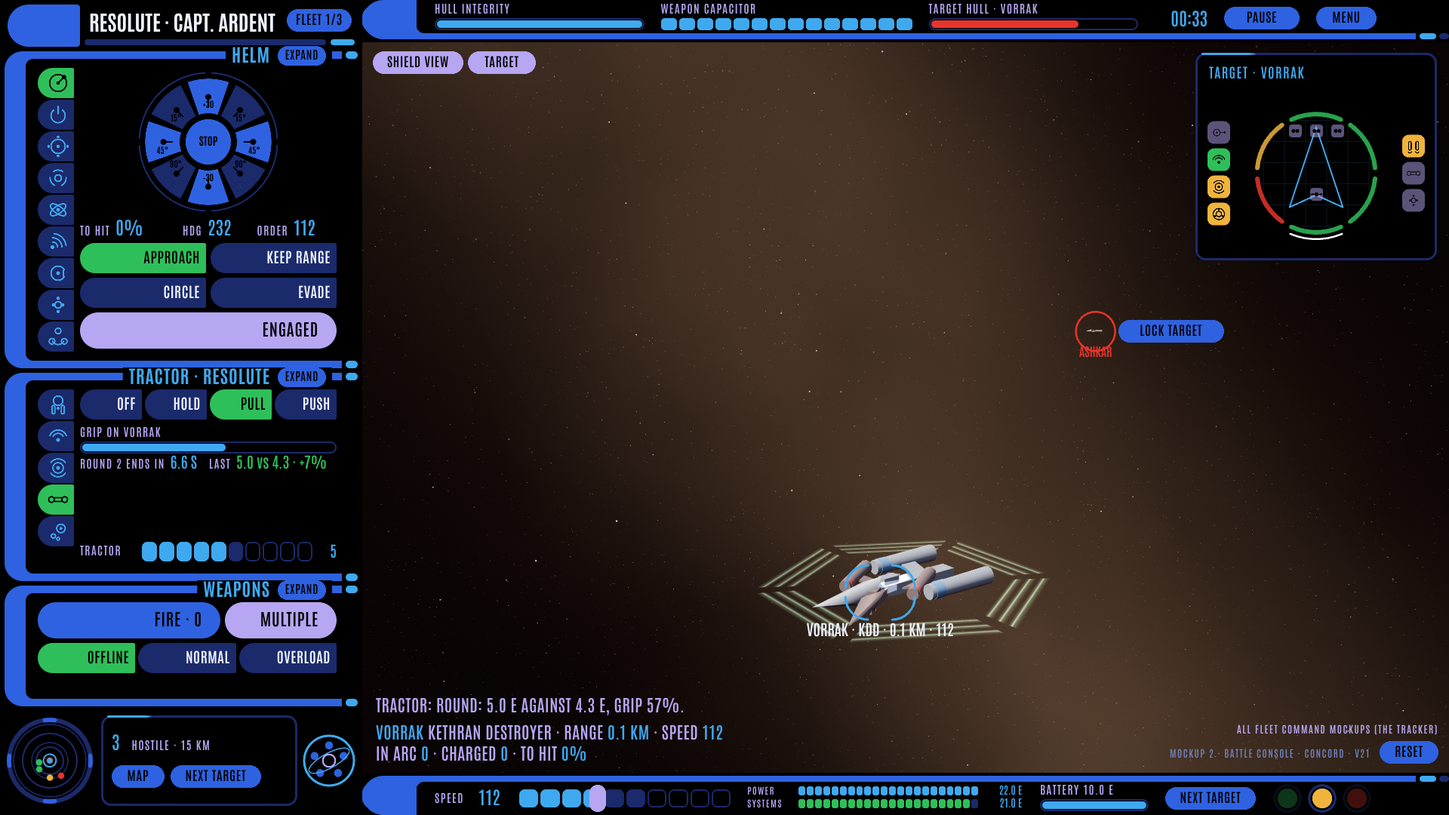
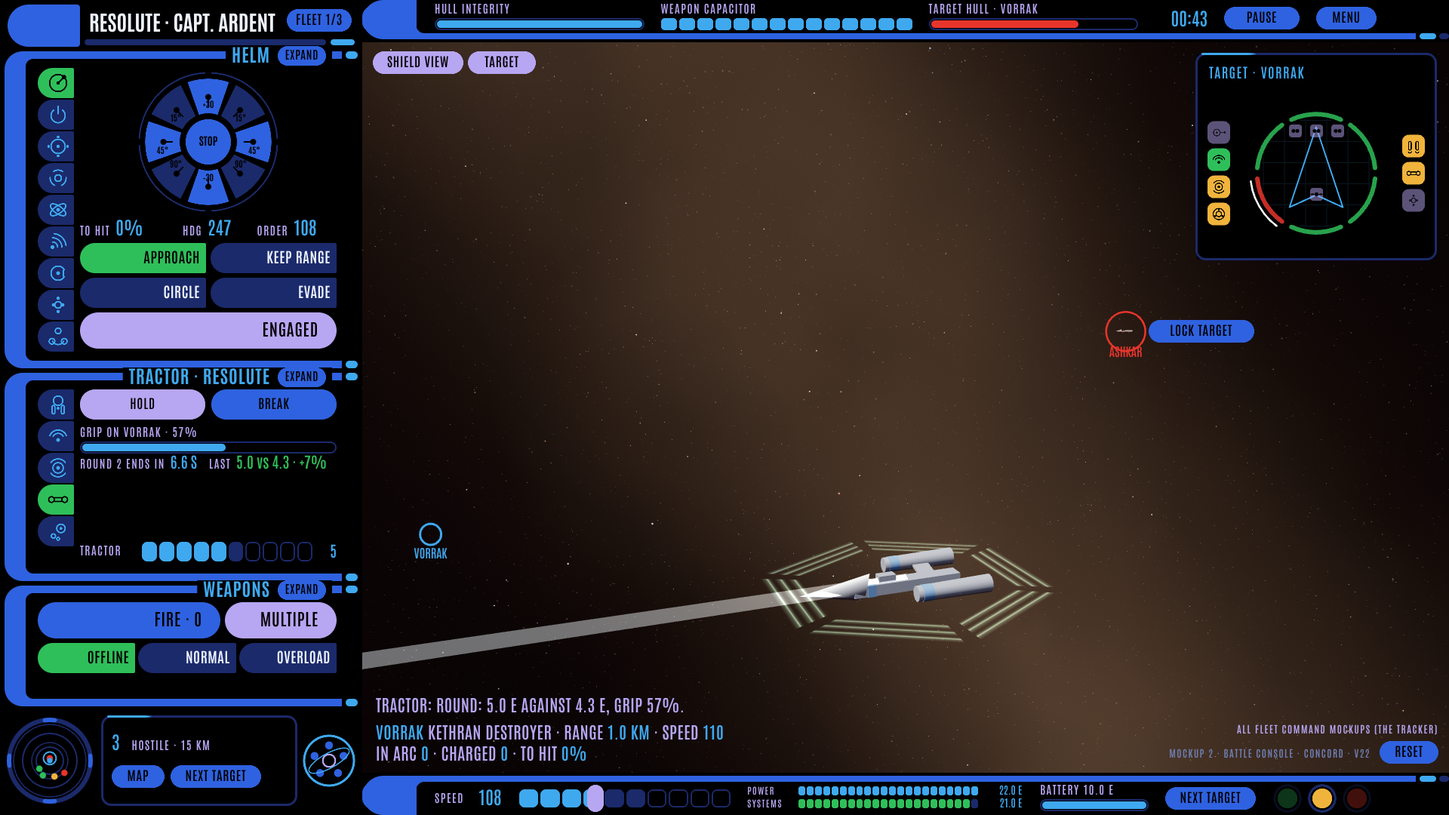
Battle console v22: tractor Hold and Break, 10 s power-up, the beam turns on a weak or downed holder; survey B11-B12
Claude-Session: https://claude.ai/code/session_01RGPQuqAYNNJKpzbbbZ3BfB

diff --git a/docs/mockups/battle-console.html b/docs/mockups/battle-console.html
@@ -427,13 +427,15 @@ for (const el of document.querySelectorAll('script[type="application/json"][data
 const M_PER_U = 100;
 // Mine laying (owner, 2026-11-01: "Mine laying should have a cool down system of 3 seconds").
 const MINE = { cooldown_s: 3, arm_s: 3, trigger_u: 12, dmg: 20 };
-// The tractor beam is a contest of rounds (owner, 2026-11-01): the grip starts at 50 %, a round lasts 10 s, and by its
-// end each ship has picked a beam value, the energy it puts into its tractor (the holder to hold, the held ship to
-// resist). Neither sees the other's pick until the round ends. The higher pick moves the grip its way, step_per_e for
-// each point of difference; a grip at 0 frees the held ship. The grip scales how hard the beam holds, pulls or pushes.
-// A ship that breaks free cannot be taken by the same holder again for relock_s (one round), so switching the beam
-// straight back on does not hand the holder a fresh 50 %.
-const TRACTOR = { reach_km: 3, grip_start: 0.5, round_s: 10, step_per_e: 0.1, hold_damp: 0.8, move_u_s: 2, relock_s: 10 };
+// The tractor beam is a contest of rounds (owner, 2026-11-01). Two keys only, Hold and Break ("Hold and break should be
+// only two options"): Hold powers the beam up for powerup_s ("Tractor beam does take 10 seconds to power up"), then it
+// takes the target inside reach at a grip of 50 %. A round lasts round_s; by its end each ship has picked a beam value,
+// the energy it puts into its tractor (the holder to hold, the held ship to resist), unseen by the other until the
+// round ends. The higher pick moves the grip its way, step_per_e for each point of difference. A grip at 0 frees the
+// held ship, and if the holder's tractor is down (off, disabled or destroyed) or its value is under reverse_ratio of
+// the breaker's, the breaker takes hold of the holder ("The ship breaking the beam then becomes the holder"). The
+// holder can Break at any time. A ship that broke free cannot be taken by the same holder again for relock_s.
+const TRACTOR = { reach_km: 3, powerup_s: 10, grip_start: 0.5, round_s: 10, step_per_e: 0.1, reverse_ratio: 0.5, hold_damp: 0.8, relock_s: 10 };
 const WEAPONS = {
   lance: { name: 'Lance', kind: 'beam', range_km: 12, charge_s: 3.5, cost_e: 2, dmg: 7, color: 0x6fc4ff },
   torpedo: { name: 'Pulse torpedo', kind: 'torpedo', range_km: 18, charge_s: 8, cost_e: 5, dmg: 14, speed_m_s: 2600, color: 0x9fd0ff,
@@ -567,7 +569,7 @@ function makeShip(d) {
     mounts: c.mounts.map(([w, x, y, ac, aw], i) => ({ i, w, x, y, arc: [ac, aw], state: 'normal', charge: 0.6 + (i % 3) * 0.15, sel: w !== 'pd', hp: 1 })),
     sys: { weapons: 1, shields: 1, engines: 1, sensors: 1, tractor: 1, transport: 1 }, target: null, aim: 'hull', order: 'approach', engaged: false,
     ai: { stance: 'attack', rule: d.side === 0 ? 'mine' : 'nearest', range: 'mid', retreat: 'never', fire: 'free' }, ecm: 0, eccm: 0, sensorMode: 'active',
-    scan: { id: null, p: 0 }, tractor: 'off', beam: null, relock: null, mineCool: 0, pd: 'auto', transporter: 1, marines: c.marines, mines: c.mines, fighters: c.fighters, mission: 'attack',
+    scan: { id: null, p: 0 }, tractor: 'off', powerT: 0, beam: null, relock: null, mineCool: 0, pd: 'auto', transporter: 1, marines: c.marines, mines: c.mines, fighters: c.fighters, mission: 'attack',
     reactor: { coils: [0, 0, 0], conf: 1, loops: [{ flow: 1, hp: 1 }, { flow: 1, hp: 1 }], temp: 50, melt: 0, warned: false }, brown: 1, overdraw: false,
     alert: 'yellow', priority: 'engines', alive: true, flash: [0, 0, 0, 0, 0, 0], thinkT: 0, volley: true, intercepts: 0 };
 }
@@ -636,33 +638,51 @@ function systemsStep(s) {
 // The beam's value for a round: the energy a ship puts into its tractor, scaled by the tractor's health. The holder's
 // value holds; the held ship's resists. One rule for both sides and for the panel's readout.
 function beamValue(s) { return s.power.tractor * s.sys.tractor * s.brown; }
-// The tractor beam, every step. A beam takes hold of the target inside reach when the captain sets a mode with power
-// in the tractor; it drops when the target leaves reach or dies, the power goes, or the mode is set to Off. Each round
-// ends with both picks compared and the grip moved; at 0 the held ship breaks free and the mode returns to Off.
+// A ship's tractor counts as down when it has no energy or is disabled or destroyed.
+function tractorDown(s) { return s.power.tractor <= 0 || s.sys.tractor < 0.35; }
+// A beam taking hold: at the start grip, a fresh round.
+function takeHold(s, h, why) {
+  s.tractor = 'hold'; s.powerT = 0;
+  s.beam = { on: h.id, grip: TRACTOR.grip_start, roundT: TRACTOR.round_s, round: 1, last: null };
+  say('Tractor', `${s.name} ${why} ${h.name}, grip ${pct(TRACTOR.grip_start)}.`);
+}
+// The tractor beam, every step. Modes: 'off', 'power' (powering up after Hold), 'hold' (powered; holding, or waiting
+// for the target to come inside reach). The beam drops if the target leaves reach or dies, or the tractor is down.
+// Each round ends with both picks compared and the grip moved; at 0 the held ship breaks free, and may turn the beam.
 function tractorStep(s) {
-  const t = tgt(s);
   if (s.relock && (s.relock.t -= DT) <= 0) s.relock = null;
+  if (s.tractor === 'power') { if (s.power.tractor > 0) s.powerT = Math.max(0, s.powerT - DT); if (s.powerT <= 0) s.tractor = 'hold'; return; }
+  const t = tgt(s);
   if (!s.beam) {
-    if (s.tractor !== 'off' && t && s.power.tractor > 0 && distKm(s, t) <= TRACTOR.reach_km && !(s.relock && s.relock.on === t.id)) {
-      s.beam = { on: t.id, grip: TRACTOR.grip_start, roundT: TRACTOR.round_s, round: 1, last: null };
-      say('Tractor', `Beam on ${t.name}, grip ${pct(TRACTOR.grip_start)}.`);
-    }
+    if (s.tractor === 'hold' && t && !tractorDown(s) && !heldBy(s) && distKm(s, t) <= TRACTOR.reach_km && !(s.relock && s.relock.on === t.id)) takeHold(s, t, 'takes hold of');
     return;
   }
   const b = s.beam, h = ship(b.on);
-  if (s.tractor === 'off' || !h || !h.alive || s.power.tractor <= 0 || distKm(s, h) > TRACTOR.reach_km + 0.2) {
-    s.beam = null; if (s.tractor !== 'off') say('Tractor', 'Beam lost.'); return;
+  // The holder's tractor going down (disabled, destroyed or out of energy) frees the held ship, which takes hold of
+  // the holder if its own tractor can ("If enemy tractor beam module is down ... the ship breaking the beam then
+  // becomes the holder").
+  if (h && h.alive && s.tractor === 'hold' && tractorDown(s)) {
+    s.beam = null; s.tractor = 'off'; s.relock = { on: h.id, t: TRACTOR.relock_s };
+    if (!tractorDown(h) && distKm(s, h) <= TRACTOR.reach_km) takeHold(h, s, 'breaks free and takes hold of'); else say('Tractor', `${h.name} broke free.`);
+    return;
+  }
+  if (s.tractor !== 'hold' || !h || !h.alive || distKm(s, h) > TRACTOR.reach_km + 0.2) {
+    s.beam = null; s.tractor = 'off'; say('Tractor', `${s.name}: beam lost.`); return;
   }
   b.roundT -= DT;
   if (b.roundT <= 0) {
     const mine = beamValue(s), theirs = beamValue(h), d = (mine - theirs) * TRACTOR.step_per_e;
     b.grip = clamp(b.grip + d, 0, 1); b.last = { mine, theirs, d }; b.roundT += TRACTOR.round_s; b.round++;
-    if (b.grip <= 0) { say('Tractor', `${h.name} broke free.`); s.beam = null; s.tractor = 'off'; s.relock = { on: h.id, t: TRACTOR.relock_s }; return; }
+    if (b.grip <= 0) {
+      s.beam = null; s.tractor = 'off'; s.relock = { on: h.id, t: TRACTOR.relock_s };
+      // The breaker turns the beam when the holder's tractor is down or holds with under half the breaker's value.
+      if (!tractorDown(h) && (tractorDown(s) || mine < TRACTOR.reverse_ratio * theirs)) takeHold(h, s, 'breaks free and takes hold of');
+      else say('Tractor', `${h.name} broke free.`);
+      return;
+    }
     say('Tractor', `Round: ${mine.toFixed(1)} E against ${theirs.toFixed(1)} E, grip ${pct(b.grip)}.`);
   }
-  const k = b.grip, d = distU(s, h), ux = (h.x - s.x) / d, uz = (h.z - s.z) / d;
-  if (s.tractor === 'hold') h.v *= 1 - TRACTOR.hold_damp * k * DT;
-  else { const dir = s.tractor === 'pull' ? -1 : 1; h.x += ux * dir * TRACTOR.move_u_s * k * DT; h.z += uz * dir * TRACTOR.move_u_s * k * DT; }
+  h.v *= 1 - TRACTOR.hold_damp * b.grip * DT;
 }
 // The ship a beam is holding this one, or null.
 function heldBy(s) { return W.ships.find((o) => o.alive && o.beam && o.beam.on === s.id) || null; }
@@ -727,15 +747,15 @@ function think(s) {
   const [la, lb] = s.reactor.loops; if (la.hp < 0.3 && lb.flow < REACTOR.flow_max) { lb.flow++; la.flow = Math.max(0, la.flow - 1); } else if (lb.hp < 0.3 && la.flow < REACTOR.flow_max) { la.flow++; lb.flow = Math.max(0, lb.flow - 1); }
   if (ai.fire === 'free') for (const m of s.mounts) if (m.w !== 'pd' && ready(m) && inArc(s, m, t) && hitChance(s, m, t) >= 0.35) fireMount(s, m, t);
   if (s.side === 1 && s.ecm === 0 && s.power.sensors > 0) s.ecm = 1;
-  // Held by a beam: once a round, the crew picks how much to resist with (a seeded pick within the room it has),
-  // unseen by the holder until the round ends; free again, the tractor's energy goes back to nothing.
-  const hb = heldBy(s);
-  if (hb && s.resistRound !== hb.beam.round) {
-    // spare energy first, then energy taken from the weapons
-    s.resistRound = hb.beam.round; s.power.weapons += s.power.tractor; s.power.tractor = 0;
+  // In a tractor contest (held, or holding after turning a beam): once a round the crew picks its beam value (a seeded
+  // pick, spare energy first, then energy from the weapons), unseen by the other ship until the round ends. Out of
+  // the contest, the tractor's energy goes back to the weapons.
+  const hb = heldBy(s), contest = hb ? hb.beam : s.beam;
+  if (contest && s.pickRound !== contest.round) {
+    s.pickRound = contest.round; s.power.weapons += s.power.tractor; s.power.tractor = 0;
     const want = 1 + Math.floor(W.rand.ai() * 6), spare = Math.max(0, Math.min(want, powerRoom(s, 0))), take = Math.min(want - spare, s.power.weapons);
     s.power.weapons -= take; s.power.tractor = spare + take;
-  } else if (!hb && s.resistRound) { s.resistRound = 0; s.power.weapons += s.power.tractor; s.power.tractor = 0; }
+  } else if (!contest && s.pickRound) { s.pickRound = 0; s.power.weapons += s.power.tractor; s.power.tractor = 0; }
 }
 function mountWorld(s, m) {
   const L = CLASSES[s.cls].len_m / M_PER_U / 2, f = fwd(s.h), r = rightOf(s.h);
@@ -867,7 +887,9 @@ const A = {
   priority: (k) => { W.player.priority = k; },
   marines: () => { const s = W.player, t = tgt(s); if (!canBoard(s, t)) return; s.transporter = 0; s.marines -= 2; const k = Object.keys(t.sys)[Math.floor(W.rand.dmg() * 6)]; t.sys[k] = Math.max(0, t.sys[k] - 0.5); say('Transport', `Marines aboard ${t.name}: ${k} sabotaged.`); },
   mine: () => { const s = W.player; if (s.mines <= 0 || s.mineCool > 0) return; s.mines--; s.mineCool = MINE.cooldown_s; const f = fwd(s.h); W.mines.push({ x: s.x - f[0] * 3, z: s.z - f[1] * 3, side: s.side, arm: MINE.arm_s }); say('Transport', 'Mine away.'); },
-  tractor: (mode) => { W.player.tractor = mode; },
+  // Hold powers the beam up (10 s), then holds; Break lets go of a beam held or powering up, at any time.
+  tractorHold: () => { const s = W.player; if (s.tractor !== 'off' || s.power.tractor <= 0 || heldBy(s)) return; s.tractor = 'power'; s.powerT = TRACTOR.powerup_s; say('Tractor', 'Beam powering up.'); },
+  tractorBreak: () => { const s = W.player; if (s.tractor === 'off') return; if (s.beam) say('Tractor', `Beam on ${ship(s.beam.on).name} released.`); s.tractor = 'off'; s.powerT = 0; s.beam = null; },
   launch: () => { const s = W.player; if (s.fighters <= 0) return; const n = s.fighters; s.fighters = 0; for (let i = 0; i < n; i++) W.craft.push({ home: s.id, x: s.x, z: s.z, a: i * P / 2, cool: 1 + i * 0.5, mission: s.mission, recall: false, side: s.side }); say('Flight deck', `${n} fighters launched.`); },
   recall: () => { for (const c of W.craft) if (c.home === W.player.id) c.recall = true; },
   mission: (m) => { W.player.mission = m; for (const c of W.craft) if (c.home === W.player.id) c.mission = m; },
@@ -1409,7 +1431,7 @@ function healthOf(s, key) { return key === 'reactor' ? Math.min(s.reactor.conf, 
 function isOff(s, key) {
   if (key === 'reactor') return false;
   if (key === 'shields') return !s.shUp || s.power.shields <= 0;
-  if (key === 'tractor') return s.power.tractor <= 0 || s.tractor === 'off';
+  if (key === 'tractor') return s.power.tractor <= 0;
   if (key === 'weapons') return s.power.weapons <= 0 || s.mounts.every((m) => m.w === 'pd' || m.state === 'offline');
   return (s.power[key] || 0) <= 0;
 }
@@ -1628,24 +1650,25 @@ function shSensors(b) {
   pairs('se.2', b.x, y, [['Hostile', String(enemiesOf(s).length)], ['Friendly', String(W.ships.filter((o) => o.alive && o.side === 0).length - 1)]], b.w); y += 34;
   if (t) pairs('se.3', b.x, y, [['Lock', t.name], ['Their ECM', String(t.ecm)]], b.w); else LBL('No lock', b.x, y);
 }
-// The tractor station: the mode, the target's reach, the grip and the round, your pick (the energy boxes), and the last
-// round's two picks. Every figure comes from tractorStep's own state and beamValue (6.1).
+// The tractor station: Hold and Break, the power-up, the contest (grip, round, last picks) whichever side of the beam
+// the ship is on, and its pick (the energy boxes). Every figure comes from tractorStep's own state and beamValue (6.1).
 function shTractor(b, big) {
-  const s = W.player, t = tgt(s), bm = s.beam, held = bm ? ship(bm.on) : null; let y = b.y;
-  tabs('trc', b.x, y, b.w, 40, [['off', 'Off'], ['hold', 'Hold'], ['pull', 'Pull'], ['push', 'Push']], s.tractor, A.tractor, () => s.power.tractor <= 0); y += 50;
-  if (bm && held) {
-    y += bar(b.x, y, b.w, `Grip on ${held.name} · ${pct(bm.grip)}`, bm.grip, bm.grip < 0.25) + 8;
-    const L = bm.last, sign = L ? (L.d > 0 ? '+' : '') : '';
-    pairs('trc.r', b.x, y + 12, [[`Round ${bm.round} ends in`, `${fmtCool(Math.max(0.05, bm.roundT))} S`], ['Last', L ? `${L.mine.toFixed(1)} vs ${L.theirs.toFixed(1)} · ${sign}${Math.round(L.d * 100)}%` : '--', L ? (L.d > 0 ? CC.accord : L.d < 0 ? CC.alert : CC.sky) : CC.sky]], b.w, 20); y += 30;
-  } else {
-    if (s.power.tractor <= 0) LBL('No tractor power', b.x, y + 14, b.w);
-    else if (t && s.relock && s.relock.on === t.id) pairs('trc.l', b.x, y + 14, [[`${t.name} broke free`, ''], ['Beam again in', `${fmtCool(s.relock.t)} S`, CC.caution]], b.w, 20);
-    else if (!t) LBL('No target', b.x, y + 14);
-    else { const d = distKm(s, t); pairs('trc.d', b.x, y + 14, [[t.name, km(d), d <= TRACTOR.reach_km ? CC.accord : CC.alert], [d <= TRACTOR.reach_km ? 'in reach' : `reach ${km(TRACTOR.reach_km)}`, '']], b.w, 20); }
-    y += 30;
-  }
-  // Your pick for the round: the energy in the tractor, the same boxes as the power station.
-  powerRow('trc.pw', b.x, Math.max(y + 6, b.y + b.h - 30), b.w, 26, 'tractor', 82);
+  const s = W.player, t = tgt(s), hb = heldBy(s), bm = s.beam || (hb && hb.beam), other = s.beam ? ship(s.beam.on) : hb; let y = b.y;
+  const hw = (b.w - 8) / 2;
+  button('trc.hold', b.x, y, hw, 40, s.tractor === 'power' ? `Powering ${fmtCool(s.powerT)} S` : 'Hold', A.tractorHold, { center: true, sel: () => s.tractor !== 'off', dis: () => s.tractor === 'off' && (s.power.tractor <= 0 || !!hb) });
+  button('trc.break', b.x + hw + 8, y, hw, 40, 'Break', A.tractorBreak, { center: true, dis: () => s.tractor === 'off' });
+  y += 50;
+  if (bm && other) {
+    // Holding: our grip on them, green; held: their grip on us, red.
+    y += bar(b.x, y, b.w, s.beam ? `Grip on ${other.name} · ${pct(bm.grip)}` : `Held by ${other.name} · ${pct(bm.grip)}`, bm.grip, !s.beam || bm.grip < 0.25) + 8;
+    const L = bm.last, ours = L && (s.beam ? L.mine : L.theirs), theirs = L && (s.beam ? L.theirs : L.mine), gain = L ? (s.beam ? L.d : -L.d) : 0;
+    pairs('trc.r', b.x, y + 12, [[`Round ${bm.round} ends in`, `${fmtCool(Math.max(0.05, bm.roundT))} S`], ['Last', L ? `${ours.toFixed(1)} vs ${theirs.toFixed(1)} · ${gain > 0 ? '+' : ''}${Math.round(gain * 100)}%` : '--', L ? (gain > 0 ? CC.accord : gain < 0 ? CC.alert : CC.sky) : CC.sky]], b.w, 20);
+  } else if (s.power.tractor <= 0) LBL('No tractor power', b.x, y + 14, b.w);
+  else if (t && s.relock && s.relock.on === t.id) pairs('trc.l', b.x, y + 14, [[`${t.name} broke free`, ''], ['Beam again in', `${fmtCool(s.relock.t)} S`, CC.caution]], b.w, 20);
+  else if (!t) LBL('No target', b.x, y + 14);
+  else { const d = distKm(s, t); pairs('trc.d', b.x, y + 14, [[t.name, km(d), d <= TRACTOR.reach_km ? CC.accord : CC.alert], [d <= TRACTOR.reach_km ? 'in reach' : `reach ${km(TRACTOR.reach_km)}`, '']], b.w, 20); }
+  // The pick for the round, to hold or to resist: the energy in the tractor, the same boxes as the power station.
+  powerRow('trc.pw', b.x, b.y + b.h - 30, b.w, 26, 'tractor', 82);
 }
 function shCraft(b) {
   const s = W.player; let y = b.y + 22;
@@ -1894,7 +1917,7 @@ function uiView() {
     const tg = inBox(bx + 14, by + 44, ir[2] - 28, ir[3] - 52, (c, w, h) => drawSSD(c, w, h, t, false, false, 'tgt')); ssdHits('tgt', bx + 14, by + 44, tg, t, false);
   }
   if (lock) button('v.lock', lock[0], lock[1], 140, 30, 'Lock target', () => A.lock(lock[2]), { center: true });
-  LBL('Mockup 2 · Battle console · Concord · v21', vx + vw - 104, vy + vh - 20, 0, '#6f7fb4', 'right', 13);
+  LBL('Mockup 2 · Battle console · Concord · v22', vx + vw - 104, vy + vh - 20, 0, '#6f7fb4', 'right', 13);
   button('v.reset', vx + vw - 92, vy + vh - 42, 78, 30, 'Reset', A.reset, { center: true });
 }
 // Mockup only: a heavy hit on your ship from the nearest enemy, to watch the boxes change as damage lands.
@@ -1983,14 +2006,14 @@ function scripted(steps, then) {
 function damagedReactor() { const r = W.player.reactor; r.coils = [0.42, -0.18, 0.04]; r.conf = 0.7; r.loops[1].hp = 0.15; W.player.overdraw = true; W.player.power.shields = 7; for (let i = 0; i < 240; i++) step(); }
 // Some damage for the status shots: mount 2 damaged, 3 disabled, 6 destroyed, 7 turned off; sensors damaged, engines
 // disabled, the tractor off.
-// The tractor shots: the target brought to 2 km, 5 E in the tractor, Pull, then one round and a bit played out.
+// The tractor shots: the target brought to 2 km, 5 E in the tractor, Hold, the power-up, then a round and a bit.
 function tractorScene() {
   // every ship holds fire, so the target lives through the shot
   for (const o of W.ships) { o.ai.fire = 'hold'; for (const m of o.mounts) m.state = 'offline'; }
   W.shots = [];
   const s = W.player, t = tgt(s), f = 2 / distKm(s, t); t.x = s.x + (t.x - s.x) * f; t.z = s.z + (t.z - s.z) * f;
-  s.power.weapons = Math.max(0, s.power.weapons - 5); s.power.tractor = 5; A.tractor('pull');
-  for (let i = 0; i < Math.round(13.5 / DT); i++) step();
+  s.power.weapons = Math.max(0, s.power.weapons - 5); s.power.tractor = 5; A.tractorHold();
+  for (let i = 0; i < Math.round((TRACTOR.powerup_s + 13.5) / DT); i++) step();
 }
 function damagedSystems() { const s = W.player; s.mounts[1].hp = 0.6; s.mounts[2].hp = 0.2; s.mounts[5].hp = 0; s.mounts[6].state = 'offline'; s.sys.sensors = 0.6; s.sys.engines = 0.25; }
 window.MOCKUP_SHOTS = {
@@ -1998,6 +2021,10 @@ window.MOCKUP_SHOTS = {
   shields: () => scripted(600, () => { shipTab = 'shields'; W.player.reinforce = 0; }),
   tractor: () => scripted(600, () => { shipTab = 'tractor'; tractorScene(); }),
   tractor_expanded: () => scripted(600, () => { shipTab = 'tractor'; expanded = 'ship'; tractorScene(); }),
+  tractor_power: () => scripted(600, () => { shipTab = 'tractor'; const s = W.player; s.power.weapons -= 5; s.power.tractor = 5; A.tractorHold(); for (let i = 0; i < Math.round(3.7 / DT); i++) step(); }),
+  // Holding with 1 E against the Vorrak's picks until it breaks free and turns the beam on us.
+  tractor_held: () => scripted(600, () => { shipTab = 'tractor'; tractorScene(); const s = W.player; s.power.weapons += 4; s.power.tractor = 1;
+    for (let i = 0; i < 4000 && !heldBy(s); i++) step(); for (let i = 0; i < Math.round(4 / DT); i++) step(); }),
   mine_cool: () => scripted(600, () => { station = 'transport'; A.mine(); for (let i = 0; i < 18; i++) step(); }),
   shields_expanded: () => scripted(600, () => { shipTab = 'shields'; expanded = 'ship'; W.player.reinforce = 0; }),
   shields_tip: () => { scripted(600, () => { shipTab = 'shields'; const sh = W.player.shields; sh[0] = 12; sh[1] = 22; sh[4] = 6; W.player.reinforce = 0; }); HOT = 'shx.1'; },

diff --git a/docs/design/survey.html b/docs/design/survey.html
@@ -243,9 +243,12 @@ const SECTIONS = [
       { id: 'B10', q: 'Tractor beam: does either ship see the other\'s pick before the round ends?',
         options: ['No: both picks are shown when the round ends', 'Yes: the other ship\'s pick shows as it changes'], rec: 0,
         why: 'A blind pick makes each round a judgement call (how much energy to pull from weapons and shields) instead of always topping the other by one.' },
-      { id: 'B11', q: 'Tractor beam: can enemy ships hold your ship, so you resist with the same energy boxes?',
-        options: ['Yes, in the next version of the mockup', 'No, only the player holds'], rec: 0,
-        why: 'The contest is only fair if it works both ways; the panel would show who holds you and their grip.' },
+      { id: 'B11', q: 'Tractor beam: should enemy ships start a hold on their own (power up and take you), not only by turning your beam when they break free?',
+        options: ['Yes, in the next version of the mockup', 'No: enemies hold you only by turning your beam'], rec: 0,
+        why: 'Today an enemy holds you only after breaking your beam with more than double your energy; holding should be a tool both sides use.' },
+      { id: 'B12', q: 'Tractor beam: when the escaping ship turns the beam on its holder, does it start at once, or power up for 10 s first?',
+        options: ['At once, at 50 % grip', 'Power up for 10 s first, like any new beam'], rec: 0,
+        why: 'Turning the beam is the reward for out-picking the holder by double; a 10 s wait would let the old holder simply fly off.' },
     ] },
   { tag: 'R', name: 'The reactor (mockup 2)',
     lead: 'Your reactor is in the power station\'s Reactor mode: three confinement coils that lose alignment under fire, two coolant loops, a meltdown clock, and the Draw past output switch (off by default). These are built as recommended.',

diff --git a/docs/mockups/tracker.html b/docs/mockups/tracker.html
@@ -111,7 +111,7 @@ const MOCKUPS = [
     url: 'https://claude.ai/artifact/UBbAouwAU3JvcbGf6MhzLt', published: '2026-10-30', version: 5,
     summary: 'Main menu, skirmish (scenario, point budget, fleet and loadout), the campaign hex map with standees, port panels and missions, deploy, a stand-in battle, results, and back to the map.' },
   { id: 'M2', title: 'In-game UI', change: 'battle-console', page: 'docs/mockups/battle-console.html',
-    url: 'https://claude.ai/artifact/9yertq3bYQRmFiDE7N9eBs', published: '2026-11-01', version: 21,
+    url: 'https://claude.ai/artifact/9yertq3bYQRmFiDE7N9eBs', published: '2026-11-01', version: 22,
     summary: 'The battle console in the Concord skin around a live stand-in battle, desktop first: nine stations and five ship pages on narrow columns of icon tabs named on hover, the ship systems display, weapons, radar and tactical map, a speed handle, Power over Systems with the battery, and the power station\'s Reactor mode: a diagram of the core, coils and coolant loops worked by hand, with a meltdown to avoid. Every panel works and expands.' },
   { id: 'M3', title: 'Look dev', change: 'look-dev', page: 'docs/mockups/look-dev.html',
     url: '', published: '', version: 0,

diff --git a/openspec/changes/battle-console/design.md b/openspec/changes/battle-console/design.md
@@ -237,21 +237,26 @@ result in grip increasing or decreasing. Grip decreasing to 0 or below the ship 
 "Next mine in 2.4 s" in the weapons' cooldown format (x.x under 10 s) and is disabled until then. A mine still arms 3 s
 after it is dropped and goes off within 1.2 km of an enemy.
 
-**The tractor contest** (`TRACTOR` in the page, every number data):
+**The tractor contest** (`TRACTOR` in the page, every number data). Owner, 2026-11-01, second pass: "Hold and break
+should be only two options. If enemy tractor beam module is down or is less than .5x of the breaking ships strength.
+The ship breaking the beam then becomes the holder. The holding ship can break at anytime by clicking break. Tractor
+beam does take 10 seconds to power up".
 
 | Step | What happens |
 |---|---|
-| Take hold | The captain sets Hold, Pull or Push with energy in the tractor and the target inside 3 km: the beam takes hold at a grip of **50 %** |
+| Two keys | **Hold** and **Break**, nothing else (Off, Pull and Push are gone). The beam only holds: it damps the held ship's speed, 80 % a second at full grip |
+| Power-up | Hold powers the beam up for **10 s** ("Powering 6.4 s" on the key); it pauses while the tractor has no energy. Powered, it takes the target as soon as it is inside 3 km, at a grip of **50 %** |
 | A round | **10 s**, counted down on the panel ("Round 2 ends in 6.6 s") |
-| The picks | Each ship's **beam value** is the energy in its tractor when the round ends, times its tractor's health (and the brownout share). The holder sets its pick with the tractor panel's energy boxes, the same boxes as the power station; the held ship's crew picks how much to resist with, taking energy from its weapons when it has none spare. **Neither side sees the other's pick until the round ends** (built as recommended, B10) |
-| The result | The grip moves toward the higher pick, **10 % per energy point of difference** (5.0 E against 4.3 E: +7 %), between 0 and 100 % (B8); the panel shows the last round: "5.0 vs 4.3 · +7 %" |
-| Breaking free | A grip at **0** frees the held ship; the beam switches Off, and the same holder cannot take that ship again for one round, 10 s (B9) |
-| Its pull | The grip scales the beam: Hold damps the held ship's speed by 80 % a second at full grip; Pull and Push move it 200 m/s at full grip |
-| Dropped | The beam drops if the target leaves reach (3.2 km), dies, the tractor loses its energy, or the captain sets Off |
+| The picks | Each ship's **beam value** is the energy in its tractor when the round ends, times its tractor's health (and the brownout share). The player picks with the tractor panel's energy boxes, to hold or to resist; an AI crew picks once a round, taking energy from its weapons when it has none spare. **Neither side sees the other's pick until the round ends** (B10) |
+| The result | The grip moves toward the higher pick, **10 % per energy point of difference** (5.0 E against 4.3 E: +7 %), between 0 and 100 % (B8) |
+| Breaking free | A grip at **0**, or the holder's tractor going down (no energy, disabled or destroyed), frees the held ship |
+| The beam turns | When the held ship breaks free and the holder's tractor is **down**, or the holder's value is **under half** the breaker's, the breaker **takes hold of the holder** at once, at 50 %, with no power-up (B12). Otherwise it is simply free (3 E against 5 E: free; 2 E against 5 E: the beam turns) |
+| Break | The holder can **Break at any time**, also during the power-up. A ship that broke free cannot be taken by the same holder again for one round, 10 s (B9) |
+| Held | When an enemy holds you, the panel shows "Held by Vorrak · 50 %" in red with its round and the last picks from your side; Hold and Break are disabled, and you resist with the energy boxes |
 
-The energy in the tractor is drawn every second like any other system, so holding someone costs weapons or shields.
-In the 3D view the beam is a pale line from holder to held, brighter as the grip tightens. In the mockup only the
-player holds; enemies only resist (B11 asks whether they should hold you).
+The energy in the tractor is drawn every second like any other system, so holding someone, or resisting, costs weapons or
+shields. In the 3D view the beam is a pale line from holder to held, brighter as the grip tightens. An enemy holds you
+only by turning your beam; whether enemies should start a hold on their own is B11.
 
 ## 5. Costs
 
@@ -274,4 +279,5 @@ built. The 3D view is a stand-in and costs nothing that the game will keep; mock
 | B8 | Tractor: how far does the grip move after a round? | **10 % per energy point of difference** between the picks (a close round moves it a little, a lopsided one a lot); the other option is a fixed 10 % to whoever picked higher |
 | B9 | Tractor: after a ship breaks free, how soon can the same holder beam it again? | **One round (10 s)**, so switching the beam straight back on does not hand the holder a fresh 50 % |
 | B10 | Tractor: does either side see the other's pick before the round ends? | **No**, both picks are shown when the round ends (a blind bid); the other option shows the opponent's pick as it changes |
-| B11 | Tractor: can enemy ships hold yours, so you resist with the same boxes? | **Yes, in the next version**: the tractor panel would show "Held by" with the grip on you (the mockup has only your beam today) |
+| B11 | Tractor: should enemy ships start a hold on their own (power up and take you), not only by turning your beam? | **Yes, in the next version**, when they are inside 3 km and have energy to spare; today an enemy holds you only after breaking your beam |
+| B12 | Tractor: when a beam turns, does the new holder start at 50 % at once, or power up for 10 s first? | **At once, at 50 %**: turning the beam is the reward for out-picking the holder by double |

diff --git a/openspec/changes/battle-console/specs/battle-console/spec.md b/openspec/changes/battle-console/specs/battle-console/spec.md
@@ -138,16 +138,31 @@ the weapons' cooldown format and be disabled until then.
 - **THEN** no second mine is dropped and the key reads "Next mine in 2.4 s"
 
 ### Requirement: The tractor beam is a contest of rounds
-A tractor beam SHALL take hold of a target inside reach at a grip of 50 %. Every round (10 s) SHALL end with each
-ship's beam value (the energy in its tractor, times its tractor's health) compared, and the grip SHALL move toward the
-higher value by 10 % for each energy point of difference, between 0 and 100 %. A grip of 0 SHALL free the held ship and
-switch the beam off, and the same holder SHALL NOT take that ship again for one round. The panel SHALL show the grip,
-the seconds left in the round and the last round's two values, all from the rule that resolves the round.
+The tractor station SHALL offer two keys, Hold and Break. Hold SHALL power the beam up for 10 s, after which it SHALL take
+hold of the target inside reach at a grip of 50 %. Every round (10 s) SHALL end with each ship's beam value (the energy
+in its tractor, times its tractor's health) compared, and the grip SHALL move toward the higher value by 10 % for each
+energy point of difference, between 0 and 100 %. A grip of 0, or the holder's tractor going down, SHALL free the held
+ship; if the holder's tractor is down or its value is under half the breaker's, the breaker SHALL take hold of the
+holder at 50 %. The holder SHALL be able to Break at any time. The panel SHALL show the power-up, the grip (on the
+target, or on the player when held), the seconds left in the round and the last round's two values, all from the rule
+that resolves the round.
+
+#### Scenario: Powering up
+- **WHEN** the captain presses Hold with energy in the tractor
+- **THEN** the key reads "Powering" with the seconds left, and no beam takes hold for 10 s
 
 #### Scenario: A round won
 - **WHEN** the holder puts 5 E in its tractor and the held ship resists with 4.3 E when the round ends
 - **THEN** the grip moves from 50 % to 57 % and the panel shows "5.0 vs 4.3 · +7%"
 
 #### Scenario: Breaking free
-- **WHEN** the grip is 34 % and the held ship out-picks the holder by 3.4 E or more
-- **THEN** the held ship breaks free, the beam switches off, and switching it back on does not take hold for 10 s
+- **WHEN** the grip reaches 0 with the holder at 3 E and the held ship at 5 E
+- **THEN** the held ship is free, and the same holder cannot take it again for 10 s
+
+#### Scenario: The beam turns
+- **WHEN** the grip reaches 0 with the holder at 2 E and the held ship at 5 E, or the holder's tractor is disabled
+- **THEN** the ship that broke free holds the former holder at 50 %, and the former holder's panel shows "Held by"
+
+#### Scenario: Break
+- **WHEN** the holder clicks Break during the power-up or while holding
+- **THEN** the beam lets go at once

diff --git a/docs/artifacts/battle-console/README.md b/docs/artifacts/battle-console/README.md
@@ -39,3 +39,4 @@
 - Version 19 published 2026-11-01, version id `1793568233-3bd6`: cooling weapons show seconds until ready (x.x under 10 s, xx above, three figures scaled to fit) in place of the glyph and the charge bar; white hover outline; each mount one group drawn above the schematic.
 - Version 20 published 2026-11-01, version id `1793569706-f5d7`: a cooling weapon box turns a dark shade of its status colour with the seconds in the bright colour. `tools/mockups/ring_seam.mjs` rebuilt (fill = most common colour in the box, ring pixels including blended corners): 0 on every selected box at 1x and 2x, ready and cooling; v17 fails it (41-152).
 - Version 21 published 2026-11-01, version id `1793570069-f5ba`: mines on a 3 s cooldown (the Drop mine key counts down); the tractor beam as a contest of rounds (grip from 50 %, 10 s rounds, blind picks with the tractor energy boxes, 10 % per point of difference, break free at 0 with a one-round lockout), a beam line in the 3D view.
+- Version 22 published 2026-11-01, version id `1793571048-5ae4`: the tractor down to two keys, Hold and Break; a 10 s power-up; when the held ship breaks free and the holder's tractor is down or under half its value, the beam turns and it holds the holder; a "Held by" panel state; Break at any time.

diff --git a/mockup-work.md b/mockup-work.md
@@ -22,7 +22,7 @@ account and every link here is updated.
 | # | Mockup | Stage | OpenSpec change | Page | Link |
 |---|---|---|---|---|---|
 | 1 | Primary game flow | Drafted (2026-10-30, v5) | `game-flow` | `docs/mockups/game-flow.html` | https://claude.ai/artifact/UBbAouwAU3JvcbGf6MhzLt |
-| 2 | In-game UI | Drafted (2026-11-01, v21) | `battle-console` | `docs/mockups/battle-console.html` | https://claude.ai/artifact/9yertq3bYQRmFiDE7N9eBs |
+| 2 | In-game UI | Drafted (2026-11-01, v22) | `battle-console` | `docs/mockups/battle-console.html` | https://claude.ai/artifact/9yertq3bYQRmFiDE7N9eBs |
 | 3 | Look dev | Listed | `look-dev` (to write) | `docs/mockups/look-dev.html` | |
 | 4 | Console skins | Drafted (2026-10-31, v25) | `console-skins` | `docs/mockups/console-skins.html` | https://claude.ai/artifact/UTpgsPvZJrLfkEUmJN7CVb |
 

diff --git a/docs/artifacts/survey/README.md b/docs/artifacts/survey/README.md
@@ -15,3 +15,4 @@
 - 2026-11-01, desktop session for the cloud session (commit 1d90092): version 12, question W8 added (what fills the space between the Brood panels, three pictures); 51 pictures inlined; database capability kept; version id `1793514833-d1db`.
 - 2026-11-01, cloud session (battle console thread): questions B1-B6 added (B1 decided: a speed handle), republished from the cloud session; version id `1793521414-93d4`.
 - 2026-11-01, cloud session (battle console thread): B7 (tick scaling), section R (reactor, R1-R4) and B8-B11 (tractor contest) added; capabilities kept; version id `1793570080-4c09`.
+- 2026-11-01, cloud session: B11 reworded (enemies starting a hold on their own), B12 added (a turned beam starts at once); version id `1793571049-ea5e`.
